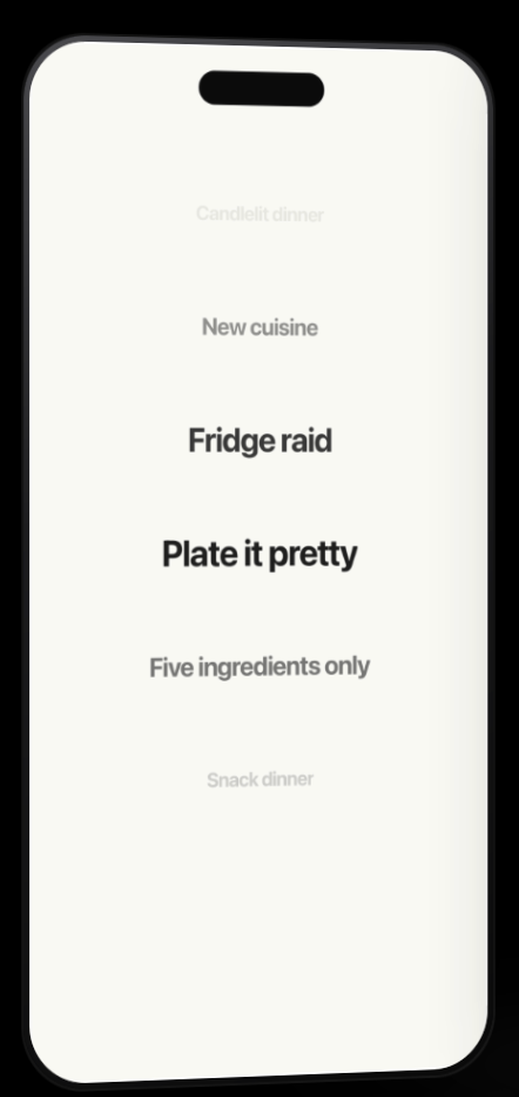
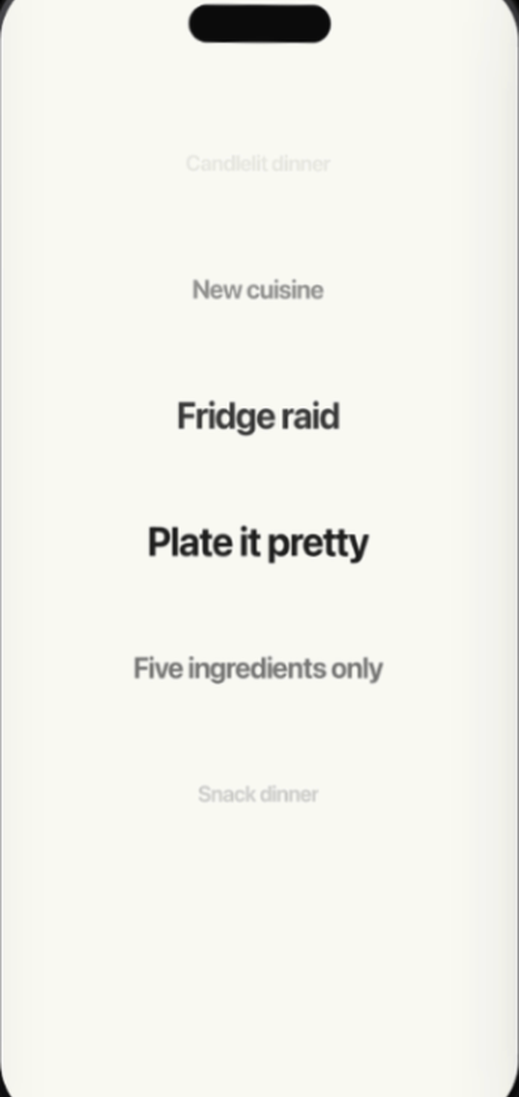
Fix roll screenshot: full-bleed screen content without nested device frame.

diff --git a/index.html b/index.html
@@ -484,7 +484,7 @@
     </figure>
     <figure class="outro-phone outro-phone--right">
       <span class="outro-phone-bezel">
-        <img src="img/screenshot-roll.png?v=2" alt="" width="519" height="1097" loading="lazy" decoding="async" />
+        <img src="img/screenshot-roll.png?v=3" alt="" width="519" height="1097" loading="lazy" decoding="async" />
       </span>
     </figure>
   </div>